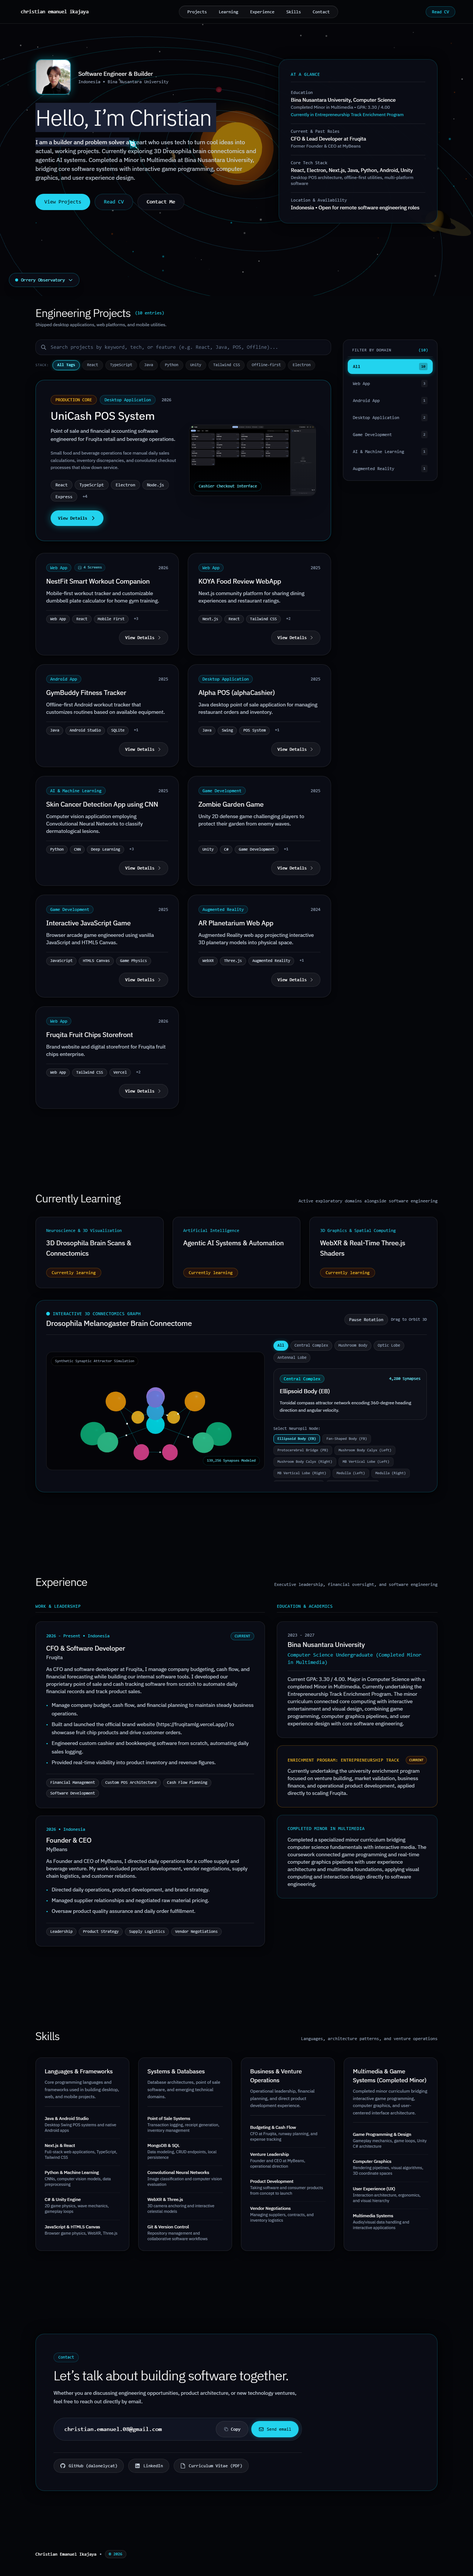
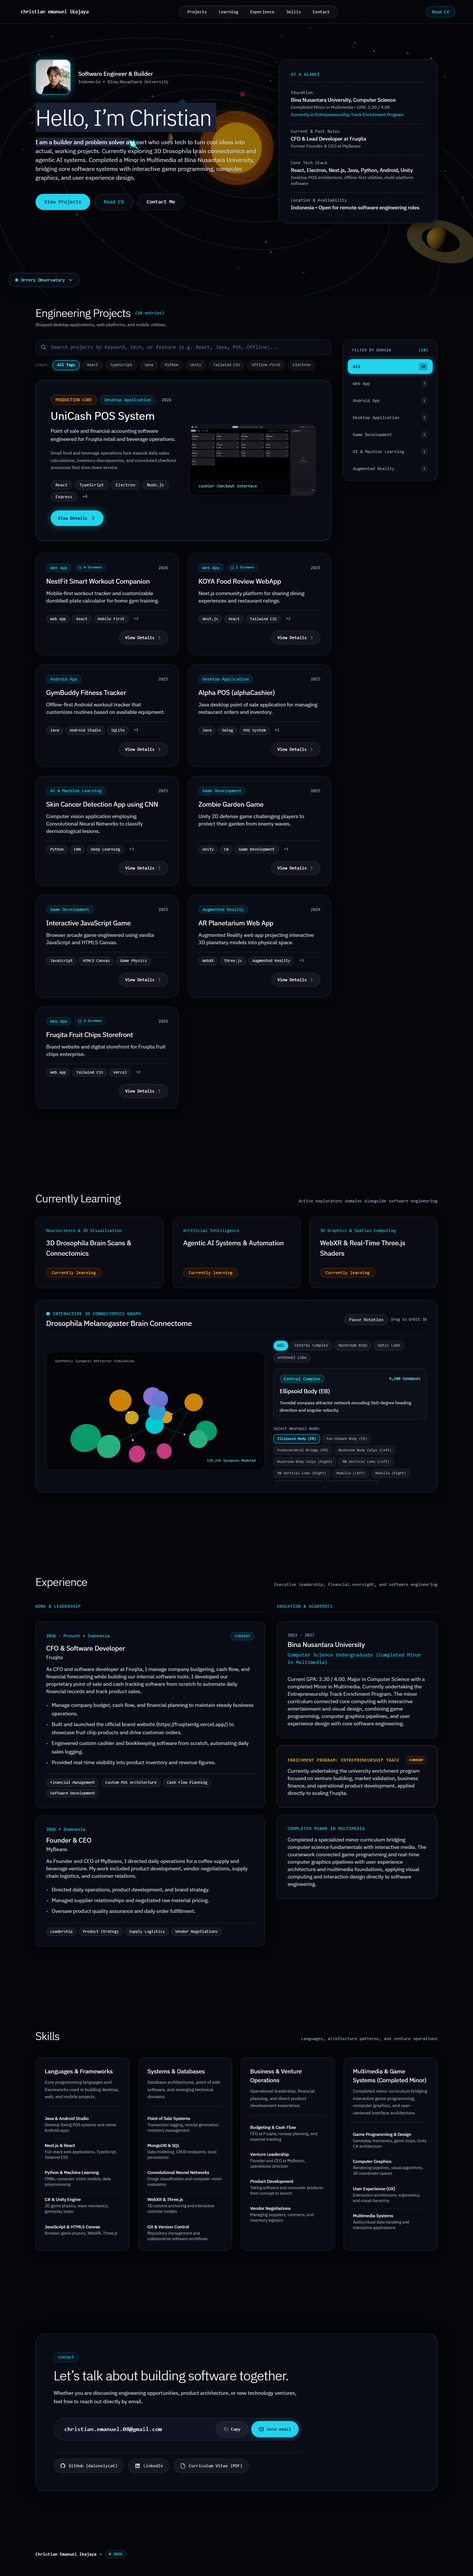
feat: add screenshots for Fruqita and KOYA, update live button to View Live

diff --git a/src/components/ProjectModal.tsx b/src/components/ProjectModal.tsx
@@ -222,7 +222,7 @@ export function ProjectModal({ project, onClose }: ProjectModalProps) {
                     rel="noopener noreferrer"
                     className="inline-flex items-center gap-2 px-5 py-2.5 rounded-full text-xs font-mono font-medium text-black bg-cyan-400 hover:bg-cyan-300 transition-all shadow-[0_0_15px_rgba(0,240,255,0.3)] min-h-[44px]"
                   >
-                    <span>View Live / Download</span>
+                    <span>View Live</span>
                     <svg className="w-3.5 h-3.5" fill="none" viewBox="0 0 24 24" stroke="currentColor">
                       <path strokeLinecap="round" strokeLinejoin="round" strokeWidth={1.5} d="M10 6H6a2 2 0 00-2 2v10a2 2 0 002 2h10a2 2 0 002-2v-4M14 4h6m0 0v6m0-6L10 14" />
                     </svg>
@@ -353,7 +353,7 @@ export function ProjectModal({ project, onClose }: ProjectModalProps) {
                     rel="noopener noreferrer"
                     className="inline-flex items-center gap-2 px-5 py-2.5 rounded-full text-xs font-mono font-medium text-black bg-cyan-400 hover:bg-cyan-300 transition-all shadow-[0_0_15px_rgba(0,240,255,0.3)] min-h-[44px]"
                   >
-                    <span>View Live / Download</span>
+                    <span>View Live</span>
                     <svg className="w-3.5 h-3.5" fill="none" viewBox="0 0 24 24" stroke="currentColor">
                       <path strokeLinecap="round" strokeLinejoin="round" strokeWidth={1.5} d="M10 6H6a2 2 0 00-2 2v10a2 2 0 002 2h10a2 2 0 002-2v-4M14 4h6m0 0v6m0-6L10 14" />
                     </svg>

diff --git a/src/data/portfolio.ts b/src/data/portfolio.ts
@@ -139,6 +139,18 @@ export const portfolioData: PortfolioData = {
       impact:
         "Created an engaging community platform with fast browsing and transparent dining ratings.",
       tags: ["Next.js", "React", "Tailwind CSS", "MongoDB", "User Auth"],
+      screenshots: [
+        {
+          src: "/projects/koya-feed.png",
+          label: "Community Feed",
+          caption: "Community home feed with restaurant reviews, rating scorecards, and culinary recommendations",
+        },
+        {
+          src: "/projects/koya-profile.png",
+          label: "User Profile",
+          caption: "User profile dashboard showing personal review history, bookmark collections, and follow telemetry",
+        },
+      ],
       repoUrl: "https://github.com/DaLonelyCat/KOYA_Food_Review_Webapp",
       featured: true,
     },
@@ -264,6 +276,13 @@ export const portfolioData: PortfolioData = {
       impact:
         "Established Fruqita's active digital storefront, elevating brand credibility and directing consumer traffic to verified checkout points.",
       tags: ["Web App", "Tailwind CSS", "Vercel", "E-Commerce", "Brand Strategy"],
+      screenshots: [
+        {
+          src: "/projects/fruqita-storefront.png",
+          label: "Storefront & Catalog",
+          caption: "Artisan fruit chips brand storefront featuring product packaging showcase, Shopee checkout, and direct ordering",
+        },
+      ],
       liveUrl: "https://fruqitamlg.vercel.app/",
       featured: true,
     },
